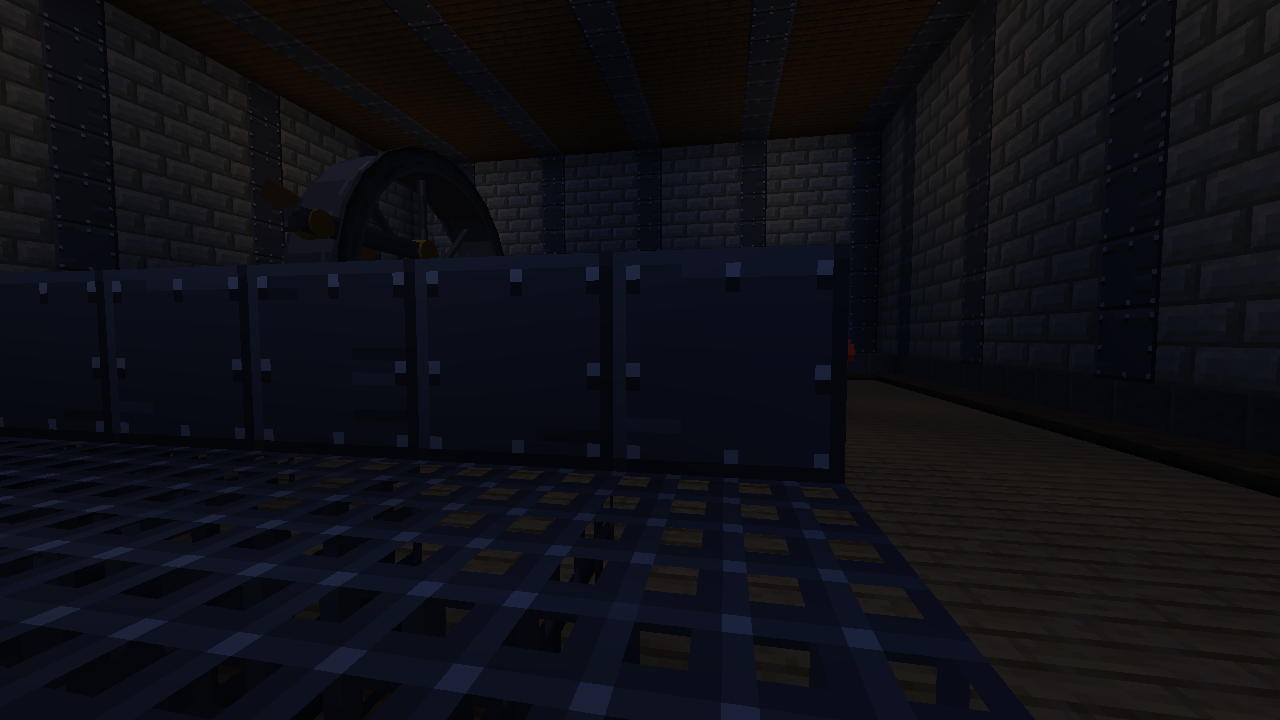
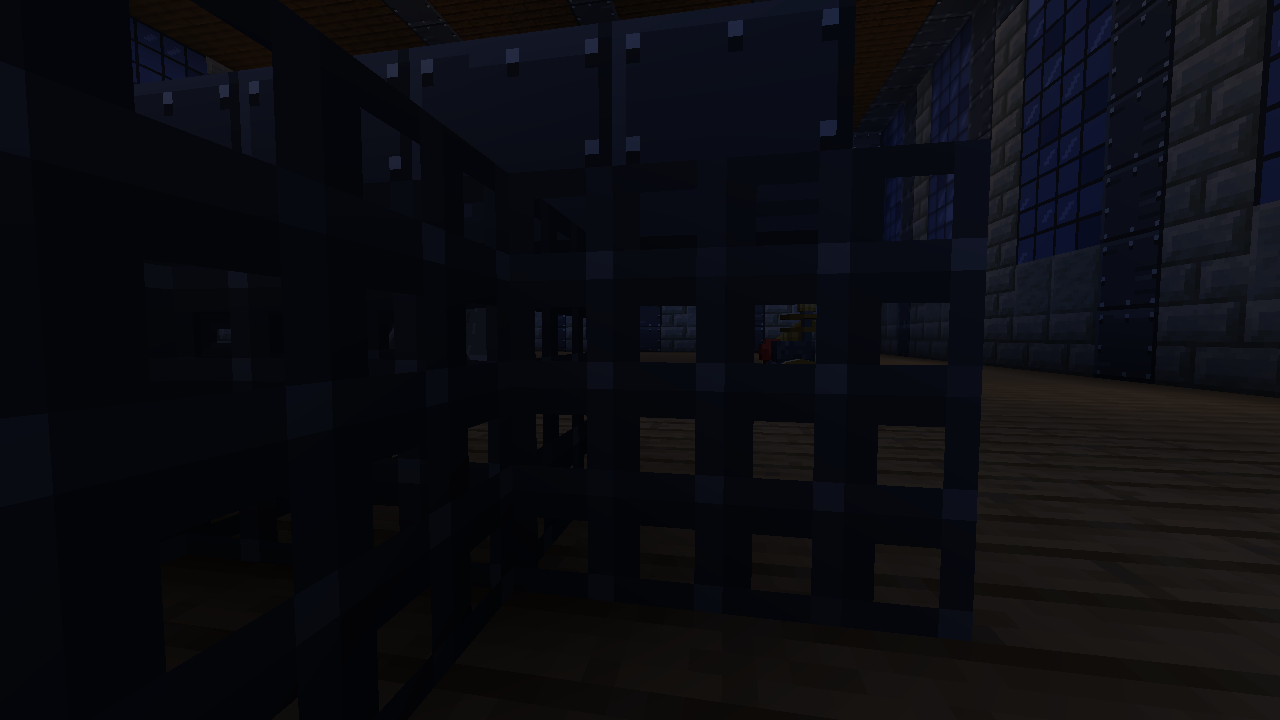
c164-shell: interiors/powerhouse -- three stands that were inside the shell's own bars or the run's shadow moved on: door_step stands in past the gate, and the two walkway stands look along the run the way a person walks it

diff --git a/c164-realms/build/scenes/obs_int_powerhouse/shots.py b/c164-realms/build/scenes/obs_int_powerhouse/shots.py
@@ -33,14 +33,15 @@ def shots():
     # the machine broadside, the belt and the dynamo
     shot("machine", (E.CX - 1.0, EYE, E.CZ + 6.5), (DYNAMO[0], DYNAMO[1], DYNAMO[2]))
     shot("flywheel", (E.CX + 1.0, EYE, E.CZ + 5.0), (WHEEL[0], WHEEL[1], WHEEL[2]))
-    # in through the wicket
+    # in through the wicket. The first stand was a cell inside the shell's own gate bars, and the
+    # bars filled the frame; it steps in past them and looks back at the machine
     shot("door_in", (DOOR_X, EYE, Z0 - 4.0), (WHEEL[0], WHEEL[1] - 0.5, WHEEL[2]))
-    shot("door_step", (DOOR_X, EYE, Z0 + 3.0), (E.CX, FEET + 1.2, E.CZ))
-    # the walkway, both ways. The one looking back at the door was a dark corner and the grating's
-    # own shadow filled a sixth of the frame; it looks along the run instead, the grating underfoot
-    # and the machine at its end.
-    shot("walkway", (PH.WALK_X[0] + 1, EYE + 0.4, PH.WALK_Z[0]), (PH.WALK_X[1], FEET + 1.0, PH.WALK_END_Z))
-    shot("walkway_in", (PH.DOOR_X[0], EYE + 0.6, PH.WALK_Z[0]), (PH.WALK_X[1], FEET + 1.0, PH.WALK_END_Z))
+    shot("door_step", (DOOR_X, EYE, Z0 + 5.0), (E.CX, FEET + 1.2, E.CZ))
+    # the walkway, along the run: the grating underfoot and the machine at its end. The two stands
+    # that looked back at the door were inside the run's own shadow and the frame's bars; these
+    # stand at the run's west end looking the way a person walks it.
+    shot("walkway", (PH.WALK_X[0] + 1, EYE + 0.5, PH.WALK_Z[1]), (PH.WALK_X[1], FEET + 1.5, PH.WALK_END_Z))
+    shot("walkway_in", (PH.WALK_X[0] + 2, EYE + 0.5, PH.WALK_Z[1]), (int(E.CX) - 4, FEET + 3.0, E.CZ - 2))
     # the room itself: the walls, the trusses, the ceiling
     shot("room", (X1 - 2.5, EYE, Z1 - 2.5), (X0 + 3.0, FEET + 3.0, Z0 + 3.0))
     shot("ceiling", (X0 + 9.0, FEET + 1.0, Z0 + 16.0), (X0 + 9.0, FEET + 9.0, Z0 + 8.0))
